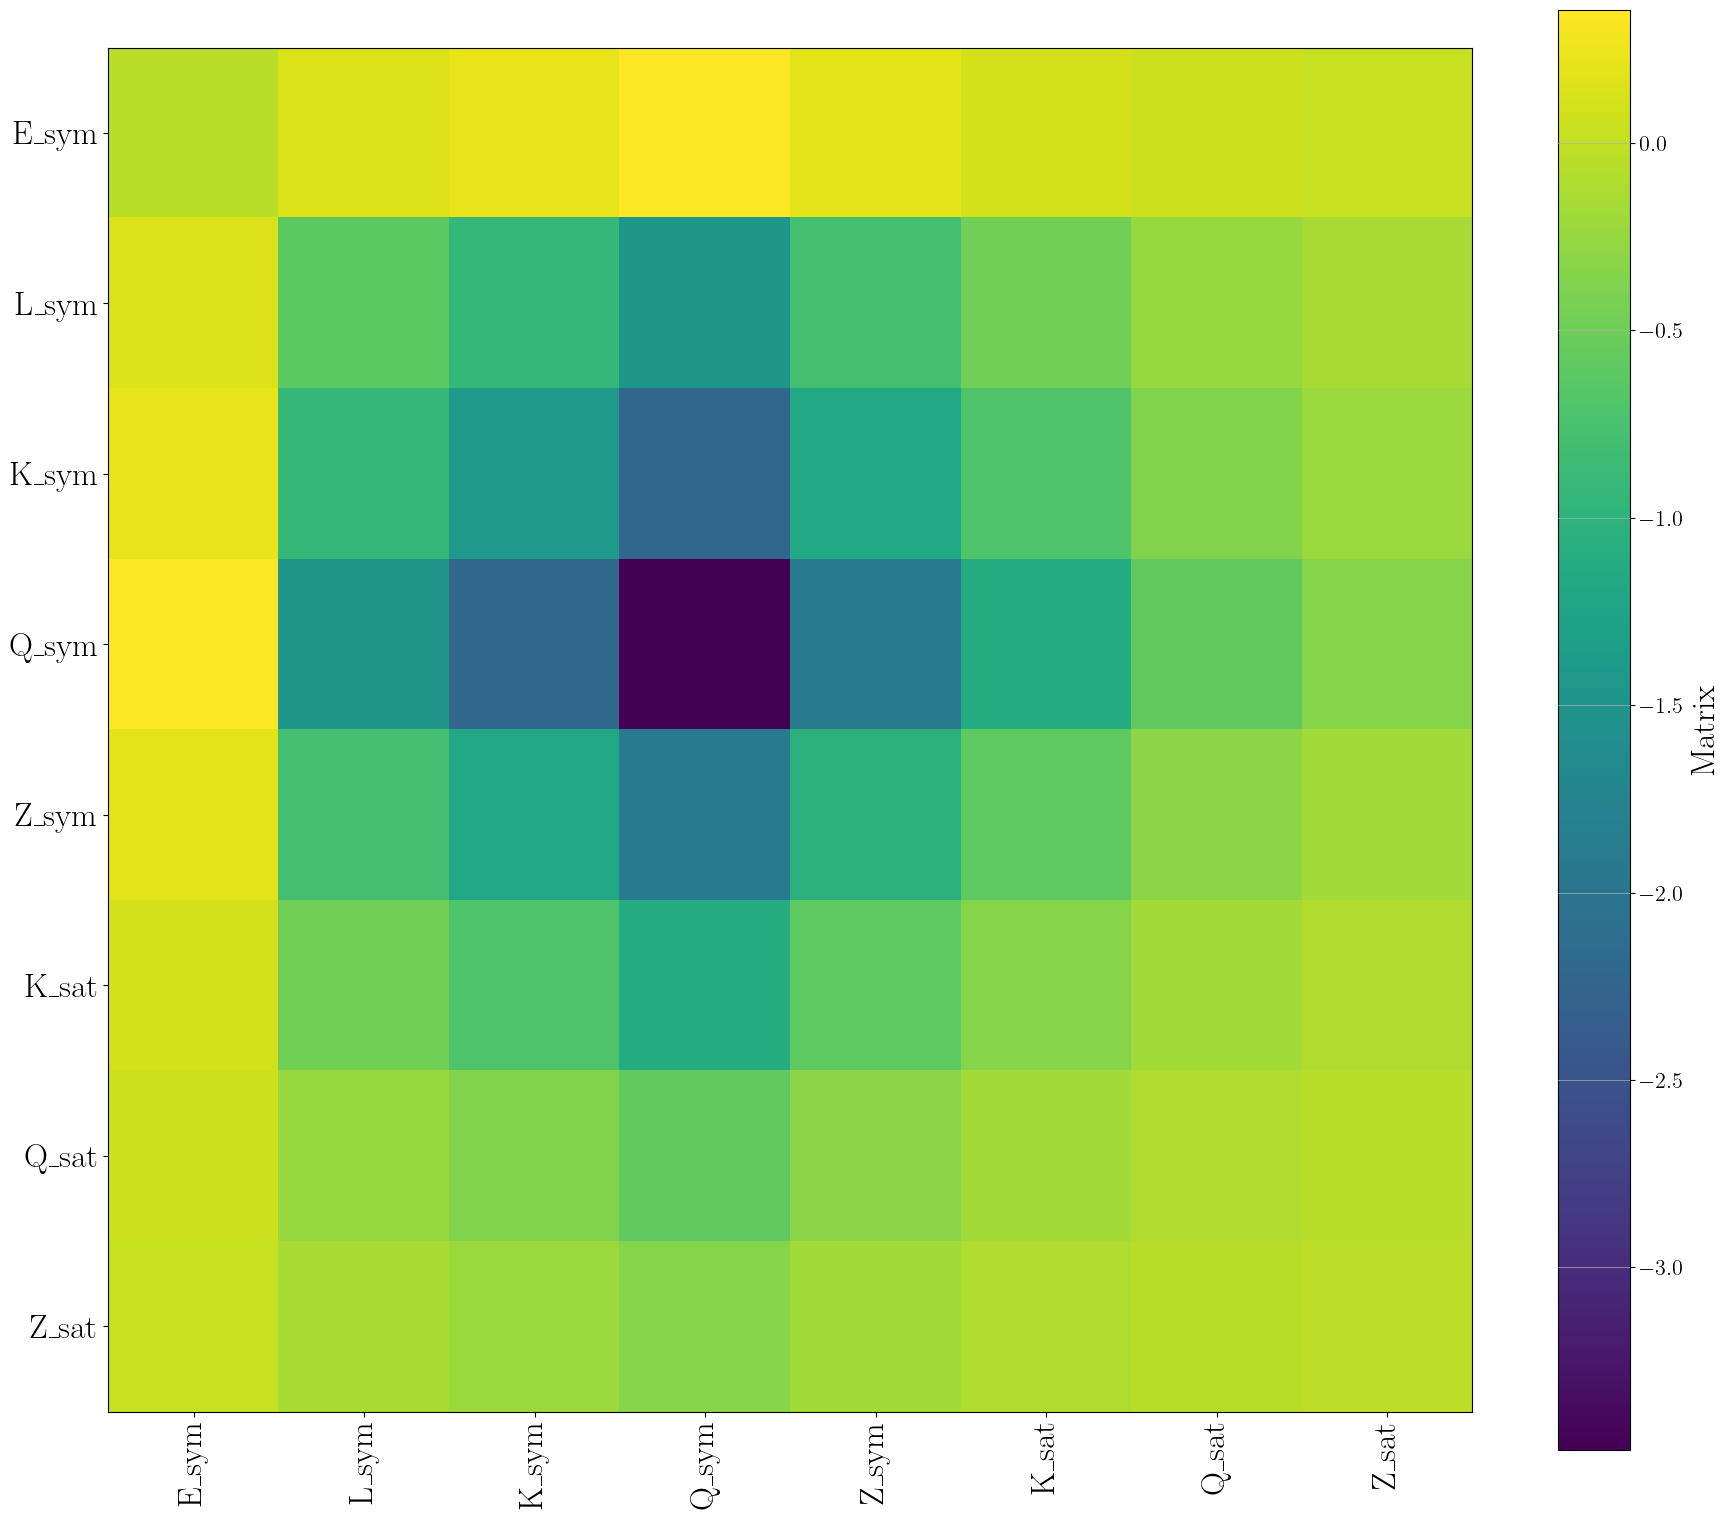
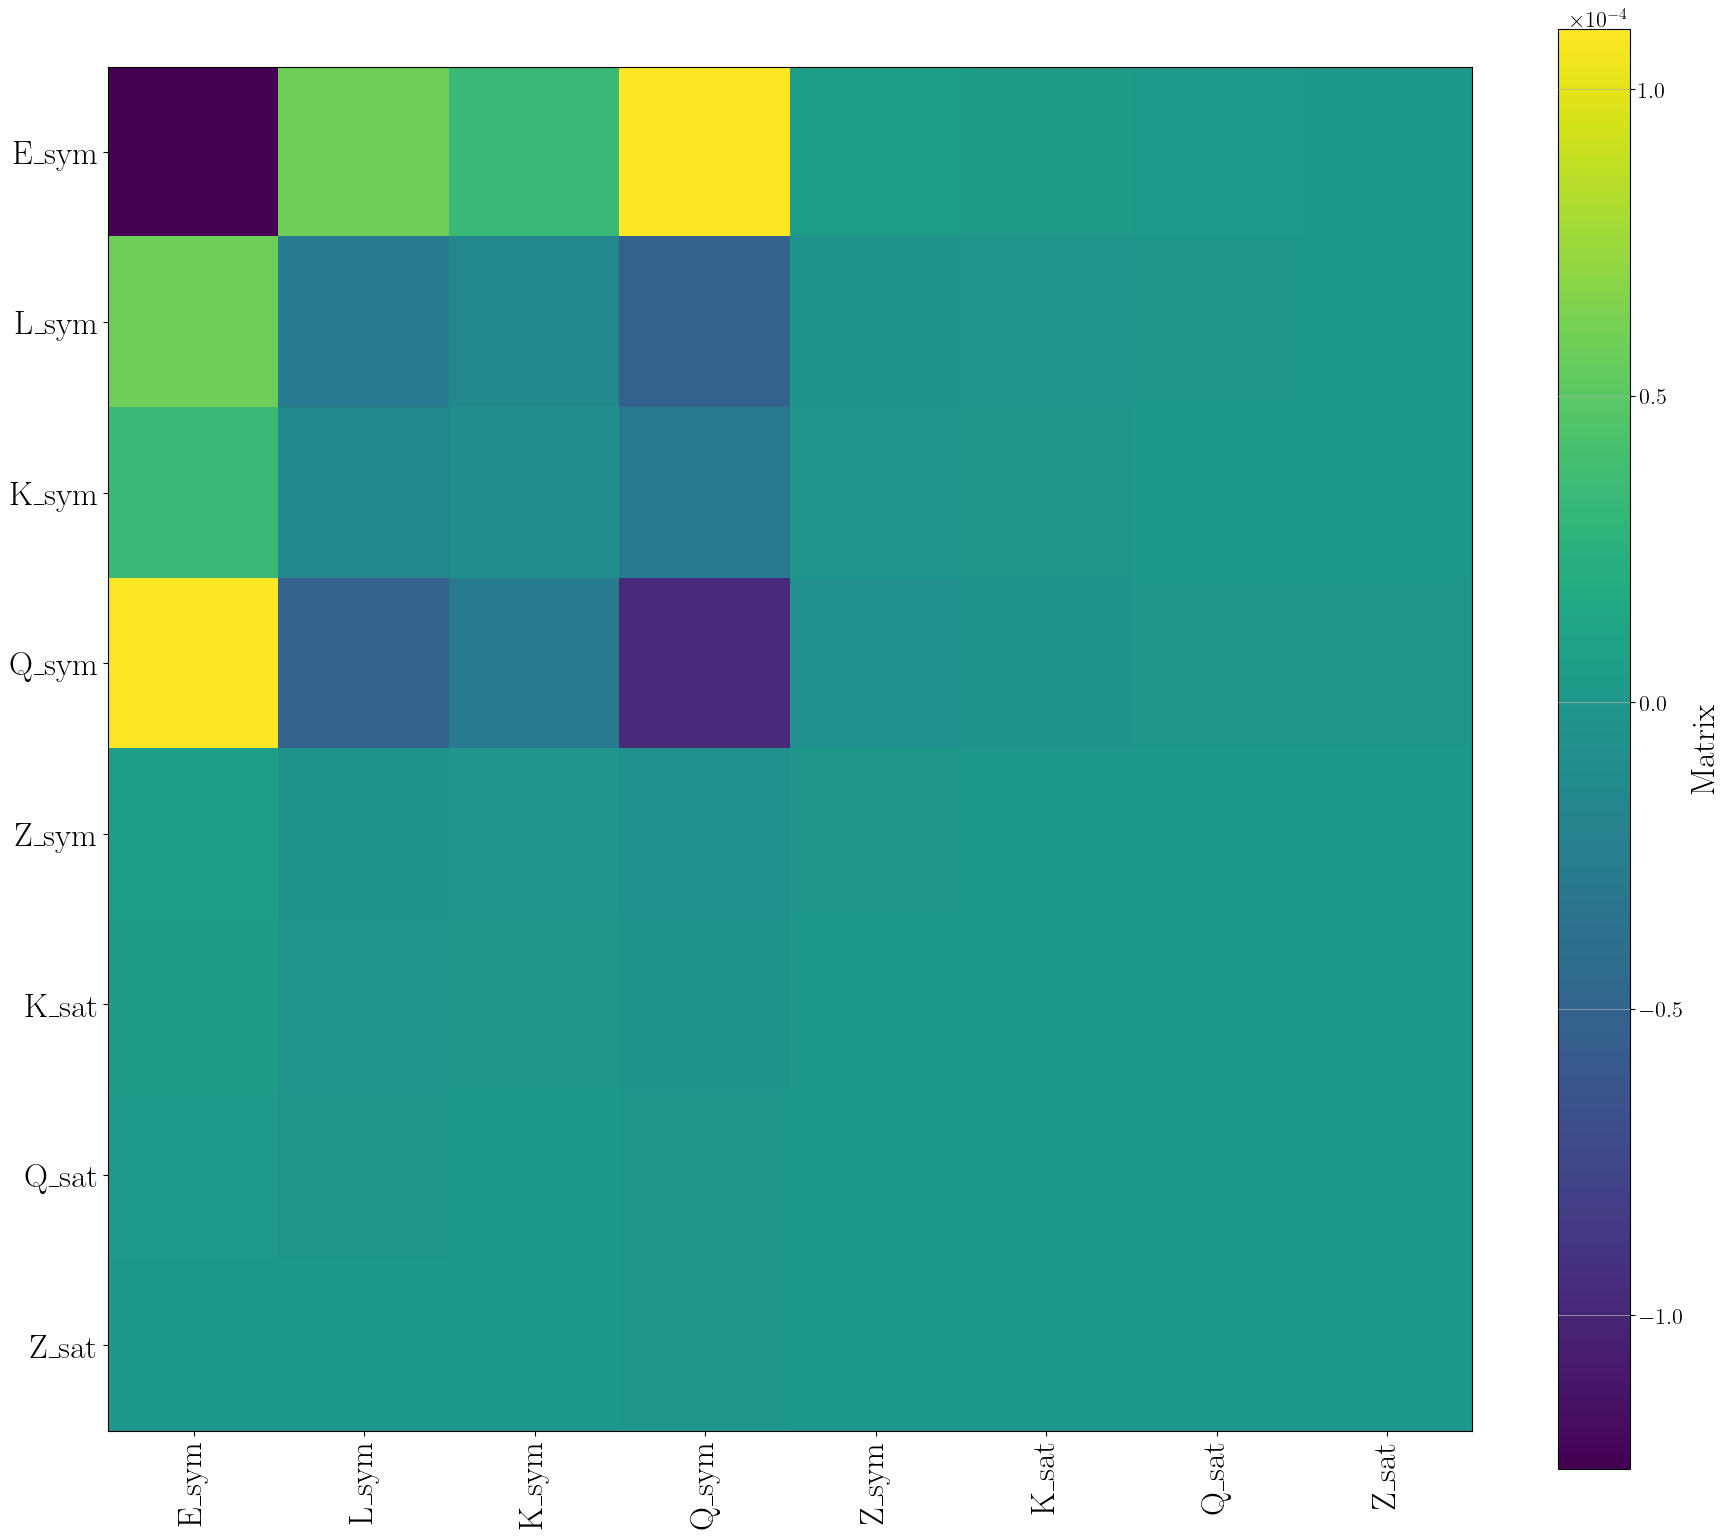
Cleanup

diff --git a/src/paper_jose/autodiff_showcase/fisher.py b/src/paper_jose/autodiff_showcase/fisher.py
@@ -33,39 +33,11 @@ import paper_jose.utils as utils
 import paper_jose.inference.utils_plotting as utils_plotting
 plt.rcParams.update(utils_plotting.mpl_params)
 
-# TODO: rename
-
-class MinMaxScalerJax(object):
-    """
-    MinMaxScaler like sklearn does it, but for JAX arrays since sklearn might not be JAX-compatible?
-    
-    Note: assumes that input has dynamical range: it will not catch errors due to constant input (leading to zero division)
-    """
-    
-    def __init__(self,
-                 min_val: dict = None,
-                 max_val: dict = None):
-        
-        self.min_val = min_val
-        self.max_val = max_val
-    
-    def transform(self, x: dict) -> dict:
-        out = {k: (x[k] - self.min_val[k]) / (self.max_val[k] - self.min_val[k]) for k in x.keys()}
-        return out
-    
-    def inverse_transform(self, x: dict) -> dict:
-        out = {k: x[k] * (self.max_val[k] - self.min_val[k]) + self.min_val[k] for k in x.keys()}
-        return out
-    
-    def fit_transform(self, x: dict) -> dict:
-        # self.fit(x)
-        return self.transform(x)
 class MyLikelihood:
     
     def __init__(self, 
                  transform: utils.MicroToMacroTransform,
                  R1_4_target: float,
-                 scaler: MinMaxScalerJax = None,
                  sigma_R: float = 1.0):
         
         self.transform = transform
@@ -73,11 +45,8 @@ class MyLikelihood:
         self.sigma_R = sigma_R
         print(f"The target R1.4 is: {self.R1_4_target}")
         
-        self.scaler = scaler
-        
     def get_R_1_4(self, params: dict):
         # Get the R1.4 for this EOS
-        params = self.scaler.inverse_transform(params)
         macro = self.transform.forward(params)
         m, r = macro["masses_EOS"], macro["radii_EOS"]
         R1_4 = jnp.interp(1.4, m, r)
@@ -144,12 +113,6 @@ class Fisher:
         sampled_param_names = self.prior.parameter_names
         name_mapping = (sampled_param_names, ["masses_EOS", "radii_EOS", "Lambdas_EOS", "n", "p", "h", "e", "dloge_dlogp", "cs2"])
         
-        # Now make the scaler
-        min_val = {k: float(prior.xmin) for k, prior in zip(sampled_param_names, self.prior.base_prior)}
-        max_val = {k: float(prior.xmax) for k, prior in zip(sampled_param_names, self.prior.base_prior)}
-        
-        scaler = MinMaxScalerJax(min_val = min_val, max_val = max_val)
-        
         # Use it to get a doppelganger score
         self.transform = utils.MicroToMacroTransform(name_mapping, nmax_nsat = NMAX_NSAT, nb_CSE = NB_CSE)
         
@@ -164,28 +127,16 @@ class Fisher:
         r_target, m_target = out["radii_EOS"], out["masses_EOS"]
         
         R1_4_target = jnp.interp(1.4, m_target, r_target)
-        self.likelihood = MyLikelihood(self.transform, R1_4_target, scaler=scaler)
+        self.likelihood = MyLikelihood(self.transform, R1_4_target)
         
 
     def compute_hessian_values(self, use_outer_product: bool = False):
         
-        
-        # # TODO: remove me
-        _grad_fn = jax.grad(self.likelihood.get_R_1_4)
-        params_ = self.likelihood.scaler.transform(self.params)
-        _grad_values = _grad_fn(params_)
-        
-        print("Sanity checking:")
-        print("_grad_values")
-        print(_grad_values)
-        
         if use_outer_product:
             print("WARNING: using the outer product with the radius")
             # Take the gradient
-            params = self.likelihood.scaler.transform(self.params)
-            
             grad_fn = jax.grad(self.likelihood.get_R_1_4)
-            grad_values = grad_fn(params)
+            grad_values = grad_fn(self.params)
             grad_values = np.array(list(grad_values.values()))
             
             # my_hessian_values = np.einsum('ac,bd->abcd', grad_values, grad_values)
@@ -194,10 +145,8 @@ class Fisher:
             
         else:
             grad_fn = jax.grad(self.likelihood.get_R_1_4)
-            params = self.likelihood.scaler.transform(self.params)
-            
             hessian = jax.hessian(self.likelihood.evaluate)
-            hessian_values: dict = hessian(params)
+            hessian_values: dict = hessian(self.params)
         
             # Extract the Hessian as array
             my_hessian_values = []
@@ -275,6 +224,7 @@ class Fisher:
                              N_params: int = 100,
                              plot: bool = False):
         
+        # FIXME: finish the implementation here
         param_values_1 = np.linspace(param_min_1, param_max_1, N_params)
         param_values_2 = np.linspace(param_min_2, param_max_2, N_params)
         log_likelihood_list = []
@@ -289,15 +239,15 @@ class Fisher:
                 params[param_name_2] = value_2
                 log_likelihood_list.append(self.likelihood.evaluate(params))
             
-        if plot:
-            plt.plot(param_values, log_likelihood_list)
-            plt.axvline(truth, color = "red", label = "True value")
-            plt.xlabel(param_name)
-            plt.ylabel("Log likelihood")
-            plt.savefig(f"./figures/check_gaussianity/{param_name}.png")
-            plt.close()
+        # # if plot:
+        # #     plt.plot(param_values, log_likelihood_list)
+        # #     plt.axvline(truth, color = "red", label = "True value")
+        # #     plt.xlabel(param_name)
+        # #     plt.ylabel("Log likelihood")
+        # #     plt.savefig(f"./figures/check_gaussianity/{param_name}.png")
+        # #     plt.close()
             
-        return param_values, log_likelihood_list
+        # return param_values, log_likelihood_list
     
     def invert_hessian_gwfast(self,
                               hessian: np.array,
@@ -472,8 +422,8 @@ def plot_matrix(matrix: np.array,
         plt.savefig(f"./figures/{save_name}", bbox_inches='tight')
         plt.close()
         
-# TODO: remove me
 def compare_hessians():
+    # TODO: remove me
     data = np.load("my_hessian_values.npz", allow_pickle = True)
     hessian_og = data["hessian_values"]
     # N = int(np.sqrt(len(hessian_og)))
@@ -515,6 +465,7 @@ def main():
     ### Inversion of Fisher matrix
     inv = invert_hessian(hessian)
     print(inv)
+    # corrcoef = np.corrcoef(inv)
     
     identity = np.dot(hessian, inv)
     
@@ -524,14 +475,9 @@ def main():
     ### Gaussianity
     # check_all_gaussianity(fisher)
     
-    # corrcoef = np.corrcoef(inv)
-    # print("corrcoef")
-    # print(corrcoef)
     
     plot_matrix(hessian, names = fisher.prior.parameter_names, save_name = "hessian.png", take_log = False)
     plot_matrix(inv, names = fisher.prior.parameter_names, save_name = "inv.png", take_log = False)
-    # plot_matrix(hessian[:-2, :-2], names = fisher.prior.parameter_names[:-2], save_name = "hessian.png", take_log = False)
-    # plot_matrix(inv[:-2, :-2], names = fisher.prior.parameter_names[:-2], save_name = "inv.png", take_log = False)
     plot_matrix(identity, names = fisher.prior.parameter_names, save_name = "identity.png", take_log = False)
     
     print("DONE")
